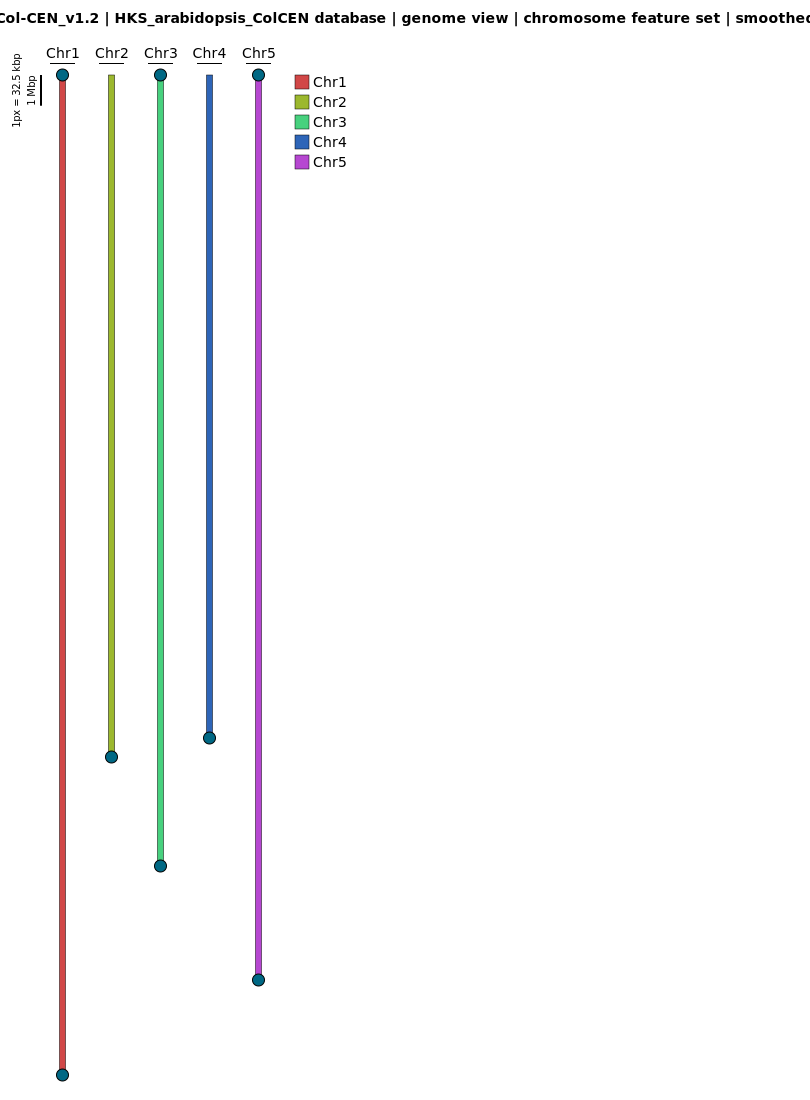
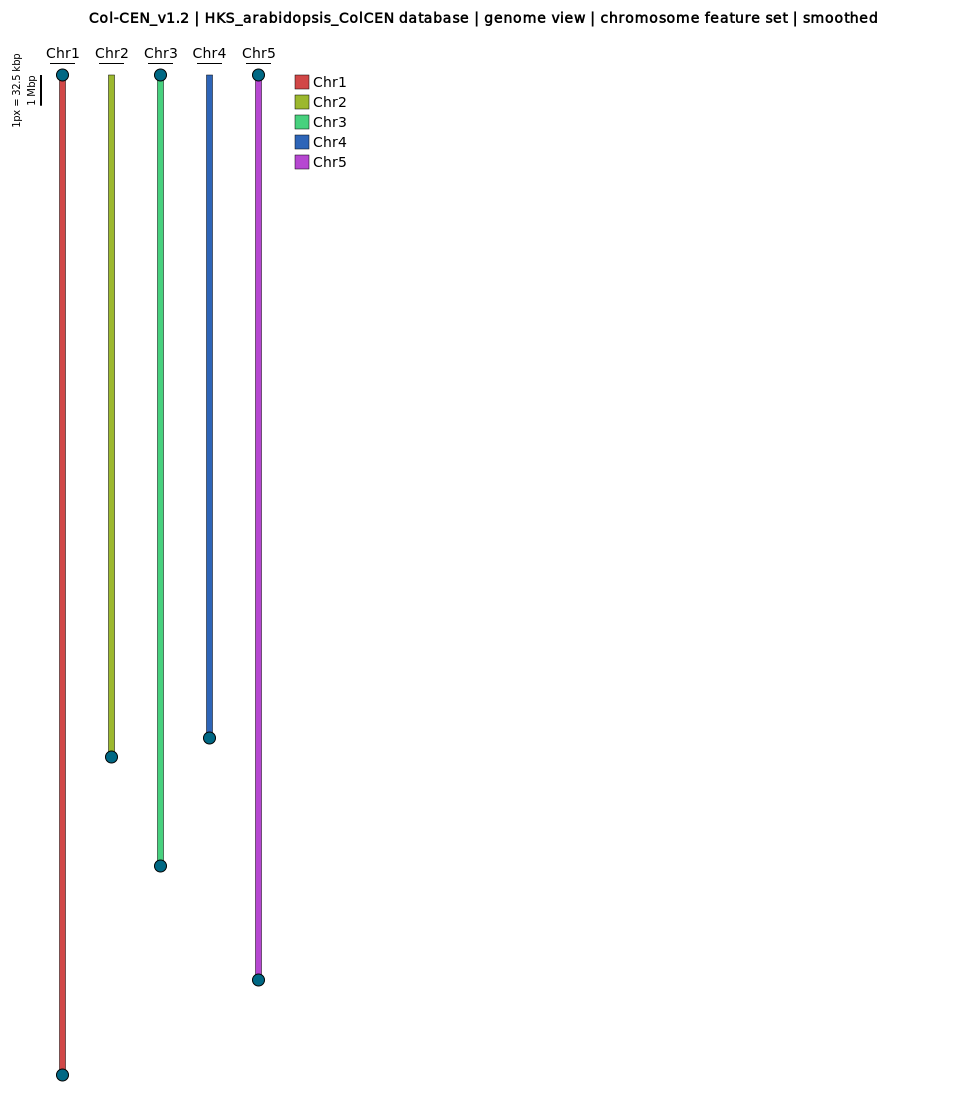
fix(karyotype): pin the font, so the title stops clipping in the PNG
The Arabidopsis genome plot lost both ends of its title in the PNG while the
SVG was fine -- and it rendered correctly on one node and clipped on another.

No text element declared a font-family, so each renderer picked its own default
sans-serif. The canvas is widened to hold the title, so a machine whose default
font is wider than the one that width was computed for clips it. Confirmed by
rendering the *same* SVG in two places: title ink at x=11..799 of 810 on one
node, x=0..810 on the node that produced the committed image.

The width estimate was wrong too, in the same direction. Its comment called
7.5 px/char "a rough over-estimate so the title never clips"; measured, DejaVu
Sans at 14 px is 7.34 px/char and cairosvg's synthesised bold renders 7.58, so
7.5 sat below the real figure. The node that clipped needed >= 7.79.

Fixes both halves:

  * every text element now declares a font stack (DejaVu Sans first -- it ships
    with the KaryoScope environment and with matplotlib, so it is present
    wherever KaryoScope runs), making rasterisation reproducible;
  * the estimate becomes 9.0 px/char, with the reasoning recorded: it MUST
    over-estimate, because an under-estimate clips the title at both ends while
    an over-estimate only adds whitespace.

Arabidopsis canvas goes 810 -> 966 px, title ink x=89..877 with 89 px of margin
each side, and headroom for fonts up to 9.29 px/char.

Verified by regenerating all 102 rendered PNGs on the compute node that
[…]

Changed region(s): [[0.0, 0.0, 1.0, 0.9891]]

diff --git a/src/karyoscope/core/karyotype.py b/src/karyoscope/core/karyotype.py
@@ -134,6 +134,31 @@ _CENTROMERE_TARGET_PX = 1000
 #: instead of a fixed 10 Mbp that's a third of the chromosome).
 _SCALE_BAR_TARGET_PX = 40
 
+#: Font stack for every text element in the SVG.
+#:
+#: Declaring this matters for more than looks. With no ``font-family``, each
+#: renderer picks its own default sans-serif, so the *same* SVG rasterises to
+#: different text widths on different machines -- and since the canvas width is
+#: sized to hold the title (see :data:`_TITLE_PX_PER_CHAR`), a machine whose
+#: default font is wider than the one the width was computed for clips the
+#: title. That is not hypothetical: the Arabidopsis genome plot rendered
+#: correctly on one node and lost both ends of its title on another, from this
+#: exact cause. DejaVu Sans is the first choice because it ships with the
+#: KaryoScope environment (and with matplotlib), so it is present wherever
+#: KaryoScope runs; the rest are fallbacks.
+_FONT_FAMILY = "DejaVu Sans, Verdana, Helvetica, Arial, sans-serif"
+
+#: Width estimate for the title, in px per character at 14 px bold.
+#:
+#: This MUST over-estimate. The title is centred and the canvas is widened to
+#: hold it, so an under-estimate clips it at both ends, while an over-estimate
+#: only adds whitespace. Measured for the pinned font above: DejaVu Sans at
+#: 14 px is 7.34 px/char, and cairosvg's synthesised bold renders 7.58. The
+#: previous value of 7.5 sat *below* the bold figure and was described as an
+#: over-estimate, which is what let the clipping through. 9.0 keeps ~19%
+#: headroom, enough to absorb a fallback font being wider than DejaVu Sans.
+_TITLE_PX_PER_CHAR = 9.0
+
 #: Minimum total drawn height (px) for a feature to earn a legend row. A feature
 #: whose entire rendered extent is a fraction of one pixel cannot be found in the
 #: figure, so a legend entry for it only sends the reader hunting for a colour
@@ -897,9 +922,7 @@ def render_karyotype(
             title_parts.append("smoothed")
         title_text = "  |  ".join(title_parts)
         title_margin = 15
-        # ~7.5 px/char for 14 pt bold sans-serif (a rough over-estimate so
-        # the title never clips).
-        title_half = (len(title_text) * 7.5) / 2
+        title_half = (len(title_text) * _TITLE_PX_PER_CHAR) / 2
         title_center = max(title_center, title_half + title_margin)
         image_width = max(image_width, title_center + title_half + title_margin)
 
@@ -923,6 +946,7 @@ def render_karyotype(
                 text_anchor="middle",
                 fill=text_color,
                 font_weight="bold",
+                font_family=_FONT_FAMILY,
             )
         )
 
@@ -957,6 +981,7 @@ def render_karyotype(
                 chrom_label_y,
                 text_anchor="middle",
                 fill=text_color,
+                font_family=_FONT_FAMILY,
             )
         )
         if len(HAPLOTYPES) > 1:
@@ -979,6 +1004,7 @@ def render_karyotype(
                         hap_label_y,
                         text_anchor="middle",
                         fill=text_color,
+                        font_family=_FONT_FAMILY,
                     )
                 )
 
@@ -1180,6 +1206,7 @@ def render_karyotype(
             text_anchor="middle",
             fill=text_color,
             transform=f"rotate(-90, {label1_x}, {label_y_center})",
+            font_family=_FONT_FAMILY,
         )
     )
     d.append(
@@ -1191,6 +1218,7 @@ def render_karyotype(
             text_anchor="middle",
             fill=text_color,
             transform=f"rotate(-90, {label2_x}, {label_y_center})",
+            font_family=_FONT_FAMILY,
         )
     )
     if mode == "subtelomere":
@@ -1215,6 +1243,7 @@ def render_karyotype(
                 text_anchor="middle",
                 fill=text_color,
                 transform=f"rotate(-90, {label1_x}, {q_arm_label_y_center})",
+                font_family=_FONT_FAMILY,
             )
         )
         d.append(
@@ -1226,6 +1255,7 @@ def render_karyotype(
                 text_anchor="middle",
                 fill=text_color,
                 transform=f"rotate(-90, {label2_x}, {q_arm_label_y_center})",
+                font_family=_FONT_FAMILY,
             )
         )
 
@@ -1250,6 +1280,7 @@ def render_karyotype(
                         bottom_chrom_label_y,
                         text_anchor="middle",
                         fill=text_color,
+                        font_family=_FONT_FAMILY,
                     )
                 )
             else:
@@ -1272,6 +1303,7 @@ def render_karyotype(
                             bottom_hap_label_y,
                             text_anchor="middle",
                             fill=text_color,
+                            font_family=_FONT_FAMILY,
                         )
                     )
                 d.append(
@@ -1285,6 +1317,7 @@ def render_karyotype(
                         bottom_chrom_label_y,
                         text_anchor="middle",
                         fill=text_color,
+                        font_family=_FONT_FAMILY,
                     )
                 )
 
@@ -1331,6 +1364,7 @@ def render_karyotype(
                     row_y + legend_swatch_size - 2,
                     text_anchor="start",
                     fill=text_color,
+                    font_family=_FONT_FAMILY,
                 )
             )
 

diff --git a/tests/test_karyotype.py b/tests/test_karyotype.py
@@ -663,6 +663,58 @@ class TestLegend:
         assert text.count("rA") >= 1
         assert "rB" not in text
 
+    def test_title_fits_the_canvas_over_few_chromosomes(self, tmp_path: Path) -> None:
+        # A long title over a narrow karyotype must widen the canvas to hold it.
+        # SVG viewers let text overflow the canvas, so the SVG looks fine while
+        # the rasterised PNG loses both ends -- which is exactly how this shipped:
+        # the Arabidopsis genome plot (5 chromosomes, ~104-char title) rendered
+        # correctly on one node and clipped on another whose default font was
+        # wider. The canvas must fit the title even for a font appreciably wider
+        # than the one used here.
+        rows = [
+            _row(f"Chr{i}_h1_c{i}", chrom=f"Chr{i}", hap="hap1", length=30_000_000)
+            for i in range(1, 6)
+        ]
+        ri = RenderInput(
+            map_rows=rows,
+            binned_bed={
+                f"Chr{i}_h1_c{i}": [(0, 30_000_000, f"Chr{i}")] for i in range(1, 6)
+            },
+        )
+        out = tmp_path / "x.svg"
+        render_karyotype(
+            [ri],
+            colors={f"Chr{i}": "#2ca02c" for i in range(1, 6)},
+            mode="genome",
+            output_path=out,
+            sample_label="Col-CEN_v1.2",
+            database_id="HKS_arabidopsis_ColCEN",
+            feature_set_label="chromosome",
+            smoothed=True,
+        )
+        svg = out.read_text()
+        width = float(re.search(r'width="([\d.]+)"', svg).group(1))
+        title = re.search(r">([^<]*database[^<]*)<", svg).group(1)
+        # 7.9 px/char is above the ~7.79 that clipped on the node where this was
+        # found, so the canvas has real headroom rather than only just fitting.
+        assert width >= len(title) * 7.9
+
+    def test_every_text_element_declares_a_font_family(self, tmp_path: Path) -> None:
+        # Without font-family the renderer picks its own default sans-serif, so
+        # the same SVG rasterises to different text widths on different machines
+        # -- and the canvas is sized to hold the title, so a wider default clips
+        # it. Pinning the family is what makes the output reproducible.
+        ri = RenderInput(
+            map_rows=[_row("chr1_h1_a", chrom="chr1", hap="hap1", length=1000)],
+            binned_bed={"chr1_h1_a": [(0, 1000, "rA")]},
+        )
+        out = tmp_path / "x.svg"
+        render_karyotype([ri], colors={"rA": "#2ca02c"}, mode="genome", output_path=out)
+        svg = out.read_text()
+        n_text = svg.count("<text")
+        assert n_text > 0
+        assert svg.count("font-family") == n_text
+
     def test_legend_collapses_features_sharing_a_group(self, tmp_path: Path) -> None:
         # The motivating case: the CHM13 cytoband database has 833 features in
         # a handful of colours, and the legend silently truncated to the ~51
